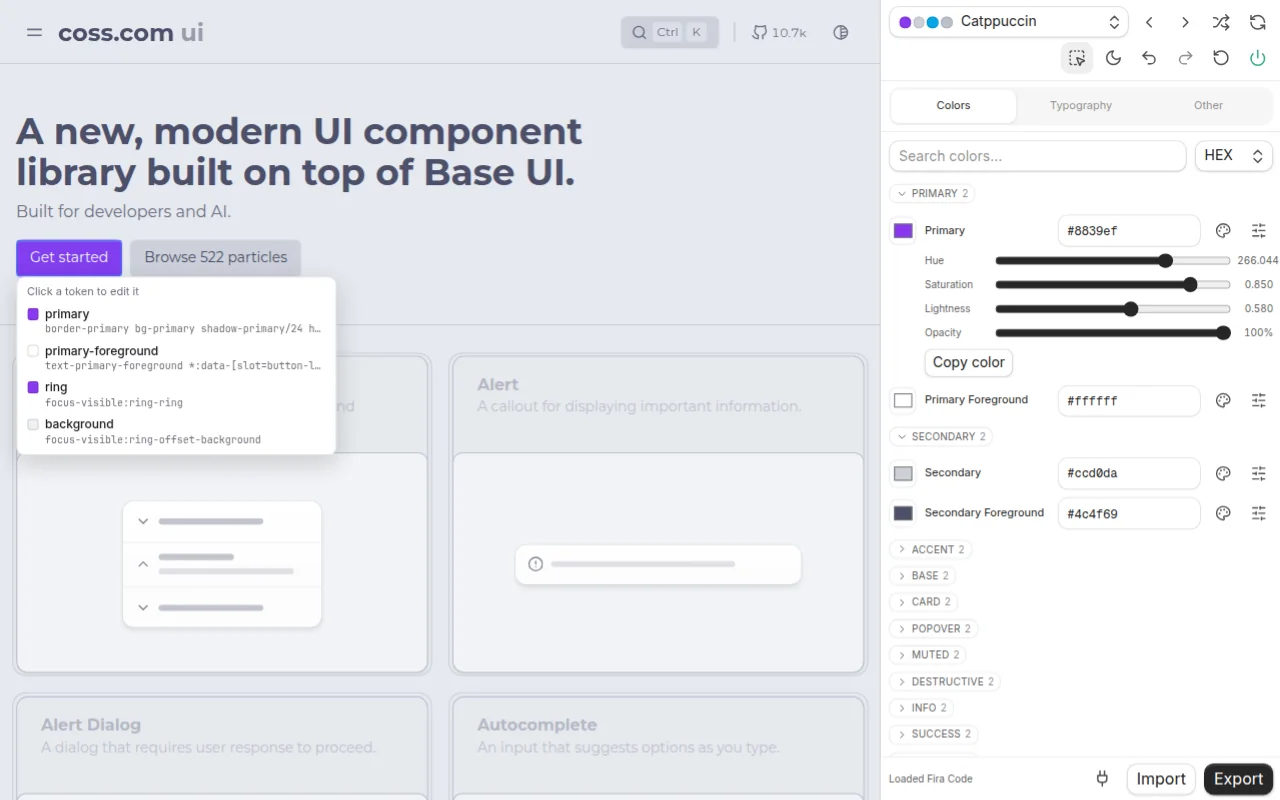
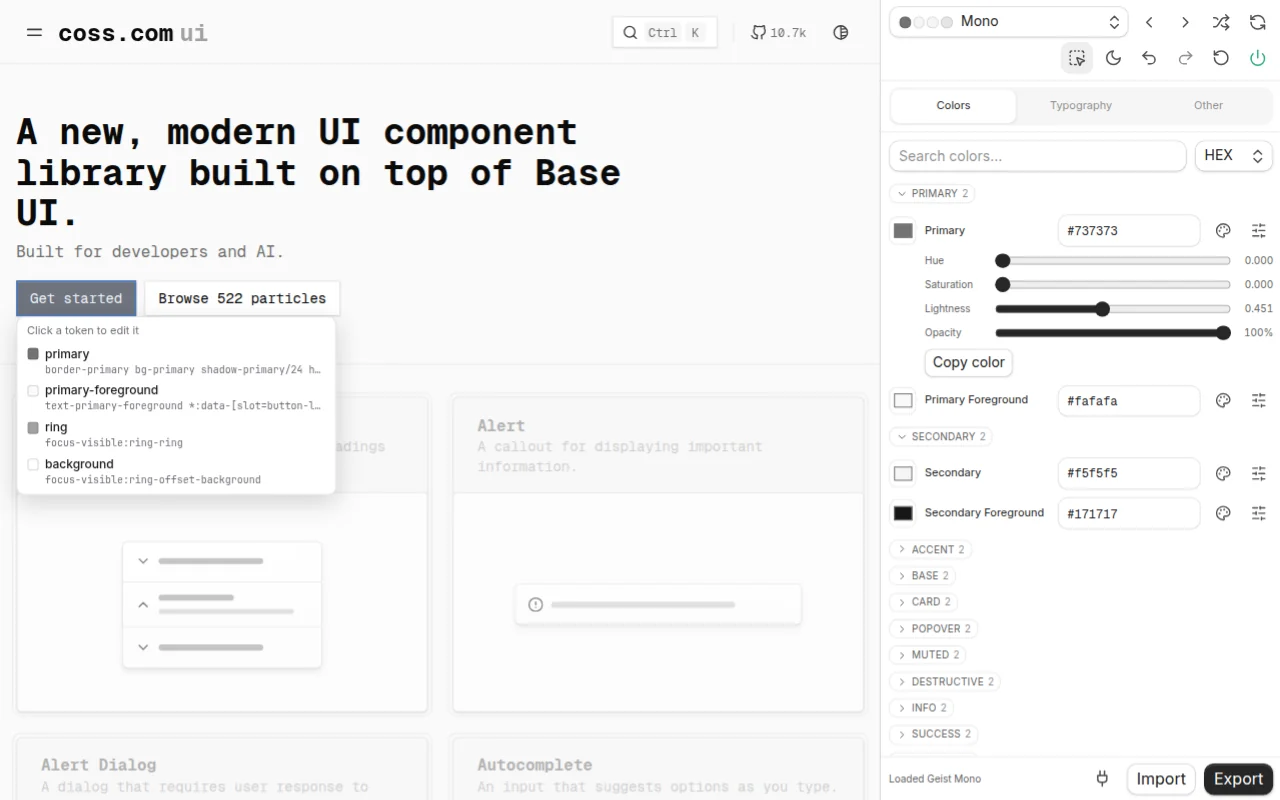
feat(web): theme both landing screenshots with Mono
Regenerate the editor and extension shots with the mono preset. The install command stays modern-minimal.

diff --git a/apps/extension/scripts/store-screenshots.ts b/apps/extension/scripts/store-screenshots.ts
@@ -3,7 +3,7 @@
 // a real capture of the side panel at its docked width; as in e2e, only the docking is stood in
 // for (the panel's "active tab of its window" query returns the site's tab).
 // Run from apps/extension after `pnpm build`: node scripts/store-screenshots.ts
-// The landing editor shot (same Catppuccin preset as screenshot 3): node scripts/store-screenshots.ts --editor [url]
+// The landing editor shot (same Mono preset as screenshot 3): node scripts/store-screenshots.ts --editor [url]
 import fs from "node:fs"
 import os from "node:os"
 import path from "node:path"
@@ -16,6 +16,8 @@ const [W, H, PANEL] = [1280, 800, 400]
 // Classic scrollbars take layout width and leave a gutter in the 1280px frame.
 const hideScrollbars =
   "::-webkit-scrollbar{width:0!important;height:0!important}"
+// Label in tweakcn.json (id `mono`). Both landing shots use it.
+const landingPreset = "Mono"
 
 // Homepage pair: the extension shot is screenshot-3; this is the browser editor beside it.
 if (process.argv.includes("--editor")) {
@@ -36,8 +38,8 @@ if (process.argv.includes("--editor")) {
     () => !document.querySelector('[aria-label="Theme preset"]:disabled')
   )
   await trigger.click()
-  await page.getByPlaceholder("Search presets…").fill("Catppuccin")
-  await page.getByRole("option", { name: "Catppuccin", exact: true }).click()
+  await page.getByPlaceholder("Search presets…").fill(landingPreset)
+  await page.getByRole("option", { name: landingPreset, exact: true }).click()
   await page.waitForTimeout(800)
   await page.evaluate(() => document.fonts.ready)
   await page.screenshot({
@@ -122,7 +124,7 @@ await panel.keyboard.press("Escape")
 
 // 3. Inspect: hover an element on the site to see and edit the tokens it uses.
 await panel.getByRole("button", { name: "Preview light" }).click()
-await preset("Catppuccin")
+await preset(landingPreset)
 await panel.getByRole("button", { name: "Inspect" }).click()
 await site.getByRole("link", { name: "Get started" }).hover()
 await site.locator("cossplay-inspector .card").waitFor()

diff --git a/apps/web/src/routes/index.tsx b/apps/web/src/routes/index.tsx
@@ -295,7 +295,7 @@ function Landing() {
                 src="/editor.webp"
                 width="1280"
                 height="800"
-                alt="Cossplay editor themed with the Catppuccin preset; the color panel is on the left and the component gallery is on the right"
+                alt="Cossplay editor themed with the Mono preset; the color panel is on the left and the component gallery is on the right"
                 className="w-full rounded-2xl border shadow-xl/5"
                 loading="lazy"
               />
@@ -308,7 +308,7 @@ function Landing() {
                 src="/screenshot.webp"
                 width="1280"
                 height="800"
-                alt="coss.com/ui themed with the Catppuccin preset; the inspector shows the tokens of the Get started button, and the Cossplay side panel has Primary's channel sliders open"
+                alt="coss.com/ui themed with the Mono preset; the inspector shows the tokens of the Get started button, and the Cossplay side panel has Primary's channel sliders open"
                 className="w-full rounded-2xl border shadow-xl/5"
                 loading="lazy"
               />
